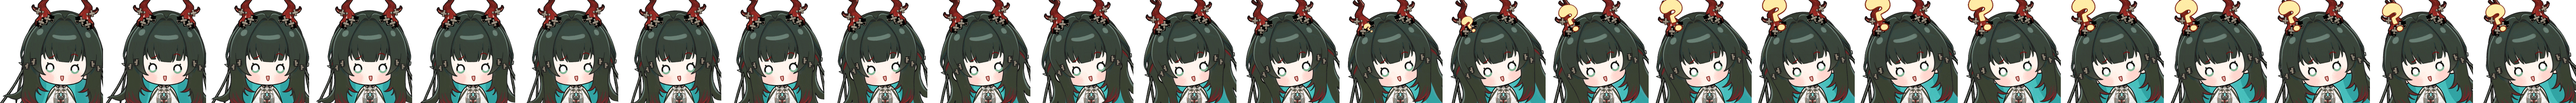
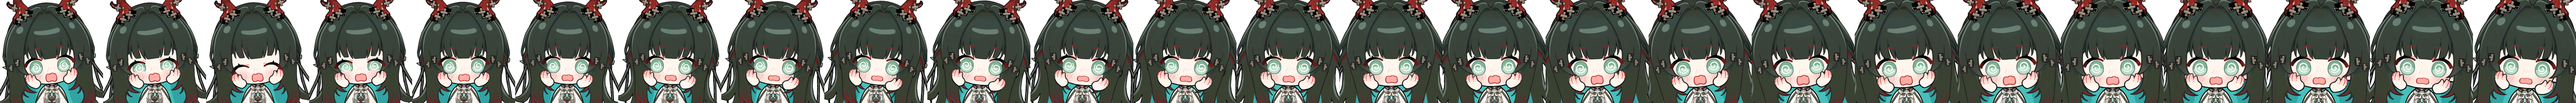
feat(主体): 删除不透明判据 —— F5 整批 20 张归队 + 星空公式进思考（用户点名）
用户 2026-10-07 两句话：
  · "这两个都并存就行了"（思考里：星星眼 + 星空公式）
  · "管线关于不透明的要求，直接去掉"

## ⭐ 删掉了什么

`scan_sources` 里**两道** `mt < SOLID_EPS` 拦截（登记为主体后、以及通用 GIF 分支）
全部删除。原先的逻辑：GIF 只要有一帧铺满不透明，就不许当主体，判去 `needs_cutout`，
理由是"播到那帧桌面上会闪矩形块"。

用户拍板："不需要抠背景，也能做主体。主体没有这么多限制，透不透明影响不大呀，
背景又不是无意义。"

`minT` 照样算、照样进报告（`--check` 与 report 可查），只是**不再作为门槛**。
注释里明确写了"别把它加回来 —— 它挡的是用户的决定"。

## 归队的与新增的

**① F5 整批 20 张全进主体**（原先 18 张 + `muscle`/`sunglasses` 归队）：
  `BUBBLE_F5` 清空；muscle → happy（7→8）、sunglasses → error（3→4）。
  它们后半段的满幅帧会以矩形出现 —— 用户明确接受。
  气泡池 45 → 43（两张撤出，产物目录里对应的孤儿 GIF 已被 prune 清掉）。

**② 星空公式当思考主体**（用户："这张图应该用于思考的时候"）：
  `thinking` 增至 5 个变体，与星星眼 `starry` **并存**。
  它是 F3b 气泡，**同时**保留在气泡池里（GIF 原样 33 帧动图，未退化）。
  实现上给它独立的主体语义名 `gif:05` —— 若复用气泡的 `starry-formula`
  撞了 `by_semantic` 的键，气泡池会拿到 kind=gif 的条目，
  **33 帧动图退化成静态首帧**（这是实现上最容易翻车的地方，断言盯着）。

## 背景说明（为什么星空公式"必须带背景"）

它的公式（f(x)=lim…、S=πR²）**画在深蓝星空底上** —— 抠掉背景公式就没了，
梗也就没了。用户确认"背景又不是无意义"。所以这张主体是**全幅不透明**的，
桌宠会显示为深蓝方块。

## 顺带澄清（用户问"有没有推进"）

实测星空公式各帧差异是**公式在人物周围漂移**，不是镜头推进 ——
用户"这张图没有推进啊"的判断是对的，我此前"zoom"的说法不准确。

## 测试
- e2e 73 → **75**：
  · muscle/sunglasses 改判"进主体 + 撤出气泡"（⚠ 主体归属**不能按名字找** ——
    产物名是状态编号，语义名不进文件名，`includes()` 恒假，老坑；
    改用张数 happy=8 / error=4 判定）
  · 新增"星空公式当思考主体且气泡不退化"（thinking 两张 33帧/30ms、
    气泡 starry-formula 仍 33帧/30ms）
  · "吐彩虹"张数账本更新：thinking=5、error=4（逐条注明每次决定）
- `emotes.js` 清掉 muscle/sunglasses 两条悬空气泡引用。
- 全量：11 个 JS 套件 **711** 项 + exe 自检 **201** 项，全绿。

diff --git a/src/pet/emotes.js b/src/pet/emotes.js
@@ -48,7 +48,6 @@ export const EMOTE_BY_KEY = {
   ],
   'notify-complete': [
     'bubble/17-yay.png',                    // 好耶
-    'bubble/muscle.gif',                    // 秀肌肉（"看我的"）
     'bubble/new/13-so-good.png',            // 太中啦
     'bubble/23-you-are-the-best.png',       // 你最好了
     'bubble/20-thumbs-up.png',              // 默大契（点赞）
@@ -87,7 +86,6 @@ export const EMOTE_BY_KEY = {
   error: [
     'bubble/22-annoyed.png',                // 好气人哦
     'bubble/angry-charge.gif',              // 生气蓄力→爆发（动图）
-    'bubble/sunglasses.gif',                // 墨镜流泪（强颜欢笑）
     'bubble/new/20-unhappy.png',            // 庄不开心
     'bubble/new/10-hate-you.png',           // 庄讨厌你
     'bubble/new/17-crying.png',             // 庄一直哭

diff --git a/tools/prepare-pet.py b/tools/prepare-pet.py
@@ -160,19 +160,13 @@ STATE_PLAN = (
     ('waking',    ('cheer', 'gif:07', 'cheerful')),
     ('idle',      ('gif:07', 'shy', 'wink', 'content', 'smile-soft')),
     ('listening', ('wink', 'gif:01', 'excited', 'cat-paws')),
-    # ⚠ 用户 2026-10-07："思考用这张图不合适，这张图出错的时候放"。
-    # 那张是 **`listless`**（源文件 `表情包_35_双眼半睁无精打采嘴巴.gif`）——
-    # 半睁的眼睛 + 吐彩虹，表达"顶不住了/被搞懵"，属于**出错**，不是思考。
-    #
-    # 踩过一次：我先按文件名"圆睁大眼嘴巴张成小小"猜成 `stunned`，把**错的**那张
-    # 搬了过去（`stunned` 其实是圆眼张嘴的正常表情，跟彩虹无关）。
-    # 教训：这批素材的**文件名描述的是静态印象**，而 GIF 的**中后段**才是用户
-    # 实际看到的画面 —— 认图必须看**中间帧**，不能读文件名。
-    ('thinking',  ('gif:04', 'starry', 'dizzy', 'stunned')),
+    # ⚠ `gif:05` = `05_星空公式`（33 帧带背景动图）。用户 2026-10-07 点名
+    # "这张图应该用于思考的时候"，与原有的星星眼 `starry` **并存**。
+    ('thinking',  ('gif:04', 'starry', 'gif:05', 'dizzy', 'stunned')),
     ('working',   ('writing', 'gif:03', 'megaphone', 'road-rage')),
     ('waiting',   ('gif:01', 'shy', 'follow-me', 'hungry', 'please')),
-    ('happy',     ('gif:06', 'joy', 'cheer', 'gif:07', 'star-eyes', 'all-ok', 'watermelon')),
-    ('error',     ('gif:02', 'knife', 'listless')),
+    ('happy',     ('gif:06', 'joy', 'cheer', 'gif:07', 'star-eyes', 'all-ok', 'watermelon', 'muscle')),
+    ('error',     ('gif:02', 'knife', 'listless', 'sunglasses')),
     ('sleeping',  ('sleepy', 'sleepy-zzz')),
 )
 
@@ -250,39 +244,30 @@ ANIM_BY_FILE = {
 #
 # ⚠ **2026-10-07 用户改主意**：这批"不要做气泡表情，要做桌宠主体"。
 # 于是其中 18 张改走主体那条路（`F5_BODY_SEMANTICS` + `STATE_PLAN`），
-# 剩 2 张（`muscle` / `sunglasses`）因为**后半段是满屏不透明特效**，
-# 当主体会在桌面上闪出矩形块 → 留在气泡池（气泡本来就允许满幅不透明）。
-# 这样"都要用上"和"主体不能有矩形块"两个要求同时满足。
+# ⚠ **2026-10-07 二次改主意**：用户拍板"管线关于不透明的要求，直接去掉" ——
+# 那道挡了 `muscle` / `sunglasses` 的透明占比判据已删（见 `scan_sources`），
+# 于是**整批 20 张全部进主体**，`BUBBLE_F5` 清空。
+#
+# 这意味着主体会出现**满幅不透明的帧**（muscle 后半段是明黄纯色底、
+# sunglasses 后半段是发丝特写）—— 用户明确接受："透不透明影响不大呀，
+# 背景又不是无意义"。**不要再把这道判据加回来**：它挡的是用户的决定，
+# 不是 bug。
 #
 # 关于画风：早先我以"另一个画风家族，混进主体会变装跳帧"为由把这批全放气泡，
 # 用户明确否掉了那条理由（"我认为新图都是符合的，没有这些要求"）——
-# 风格判断归用户，我只保留**渲染硬约束**（透明占比那条）。
+# 风格判断归用户。
 #
 # `opaque` 不写死 —— 由 `median_opaque_ratio` 按指标判定（见 `OPAQUE_MIN`）。
-BUBBLE_F5 = (
-    # (语义名, 源文件名, hasText)
-    # ⚠ 只剩这 2 张：它们后半段是**满屏不透明特效**，当主体会在桌面上闪矩形块，
-    # 所以留在气泡池（气泡允许满幅不透明）。其余 18 张见 `F5_BODY`。
-    ('muscle',       '表情包_31_明黄背景眯眼咧嘴吐舌.gif', False),   # 秀肌肉（明黄底 → 自动判 opaque）
-    ('sunglasses',   '表情包_33_戴黑色墨镜单手推镜敬.gif', False),   # 墨镜流泪（强颜欢笑）
-)
+BUBBLE_F5 = ()
 
-# ── F5b：这批里**当主体**的 18 张（用户 2026-10-07 改的主意）─────────────────
+# ── F5b：这批**全部 20 张当主体**（用户 2026-10-07："不要做气泡表情，
+#    要做桌宠主体" + "不透明的要求直接去掉"）────────────────────────────────
 #
-# 用户原话："新增的那一批表情包不要做气泡表情，要做桌宠主体"。
-#
-# ⚠ 为什么不能 20 张全进主体：主体有一条**硬判据**（不是审美偏好）——
-# `min_transparent_ratio` 要求**任何一帧都不能铺满不透明像素**，否则播到那一帧，
-# 桌面上会出现一个矩形色块。逐帧量过这 20 张（25 帧/张）：
-#
-#   能当主体（18 张，minT ≥ 3.1%）→ 见下表
-#   不能当主体（2 张，后半段满屏）→ 留在 `BUBBLE_F5`
-#     · muscle     13~24 帧铺满（明黄纯色底）
-#     · sunglasses 15~24 帧铺满（发丝特写撑满画面）
-#
-# 这样"都要用上"和"主体不能有矩形块"两个要求**同时**满足，而不是二选一。
-# `scan_sources` 仍会让这 18 张**过一遍**那条判据（走 `gif` 分支）——
-# 将来素材换版导致某张变实心时，它会掉进 `needs_cutout` 而不是悄悄进主体。
+# 逐帧量过的透明占比（记录在案，虽然已不再作为门槛）：
+#   18 张 minT ≥ 3.1%（全程有透明区）
+#   muscle      13~24 帧铺满（明黄纯色底）→ 主体播到那段会出现明黄矩形
+#   sunglasses  15~24 帧铺满（发丝特写撑满画面）→ 同理
+# 用户拍板接受矩形帧："透不透明影响不大呀，背景又不是无意义"。
 F5_BODY = (
     # (语义名, 源文件名)
     ('stunned',      '表情包_30_圆睁大眼嘴巴张成小小.gif'),   # 惊呆、冷汗
@@ -303,6 +288,9 @@ F5_BODY = (
     ('road-rage',    '表情包_47_驾浅蓝小车从远处一路.gif'),   # 开车路怒、赶路
     ('excited',      '表情包_48_先睁着大眼微笑后半段.gif'),   # 惊喜、期待
     ('all-ok',       '表情包_49_闭眼开心地笑脸颊泛红.gif'),   # 双手 OK、搞定
+    # ↓ 这 2 张原先被透明占比判据挡在气泡池，判据删除后归队（整批 20 张齐了）
+    ('muscle',       '表情包_31_明黄背景眯眼咧嘴吐舌.gif'),   # 秀肌肉（后半段明黄底铺满）
+    ('sunglasses',   '表情包_33_戴黑色墨镜单手推镜敬.gif'),   # 墨镜流泪（后半段发丝特写铺满）
 )
 
 # 与 F3b 合流：`scan_sources` 只认一张「文件名 → 语义名」的表。
@@ -311,24 +299,6 @@ F5_BY_FILE = {
     for semantic, fname, _has_text in BUBBLE_F5
 }
 
-# ── F5b：这批里**能当主体**的那些（用户 2026-10-07 改的主意）─────────────────
-#
-# 用户原话："新增的那一批表情包不要做气泡表情，要做桌宠主体"。
-#
-# ⚠ 为什么不能 20 张全进主体：主体有一条**硬判据**（不是审美偏好）——
-# `min_transparent_ratio` 要求**任何一帧都不能铺满不透明像素**，否则播到那一帧，
-# 桌面上会出现一个矩形色块。逐帧量过这 20 张：
-#
-#   能当主体（18 张，全部 25 帧、minT ≥ 3.1%）：
-#     stunned content cat-paws listless cheerful watermelon sleepy-zzz star-eyes
-#     smile-soft knife please dizzy follow-me hungry megaphone road-rage excited all-ok
-#   不能当主体（2 张，后半段是**满屏特效**）：
-#     muscle     13~24 帧铺满（明黄纯色底）
-#     sunglasses 15~24 帧铺满（发丝特写撑满画面）
-#
-# 那两张**留在气泡池**（气泡本来就允许满幅不透明，F4 那批全是）—— 这样
-# "都要用上"和"主体不能有矩形块"两个要求同时满足，而不是二选一。
-#
 # 主体候选由 `STATE_PLAN` 按**语义名**引用（见那张表），这里只提供
 # 「源文件名 → 语义名」的反查，供 `scan_sources` 把 GIF 登记成主体。
 F5_BODY_BY_FILE = {
@@ -337,6 +307,19 @@ F5_BODY_BY_FILE = {
 }
 BUBBLE_ANIM = BUBBLE_ANIM + BUBBLE_F5
 ANIM_BY_FILE.update(F5_BY_FILE)
+
+# ── F3b 里**同时**当主体的那些 ──────────────────────────────────────────────
+#
+# 用户 2026-10-07："这张图应该用于思考的时候"（指 `05_星空公式`）+ "这两个
+# 都并存"（与思考里原有的星星眼 `starry` 并存）。
+#
+# ⚠ 语义名必须用 `gif:05` 而不是复用 `starry-formula`：`by_semantic` 按
+# 语义名建索引，同一个语义名只能有一条 —— 若主体条目复用气泡的语义名，
+# 气泡池会拿到 kind=gif 的条目，**动态气泡退化成静态首帧**。
+# 两条并存：`starry-formula`（气泡，GIF 原样）+ `gif:05`（主体条带）。
+BODY_EXTRA_BY_FILE = {
+    '表情包_05_星空公式.gif': {'semantic': 'gif:05'},
+}
 
 # `opaque`（要不要套气泡底）**由指标判定，不手写**。
 #
@@ -665,7 +648,15 @@ def discover():
             needs_cutout.append({'name': 'wx/%s（%s）' % (fname, semantic),
                                  'reason': 'missing', 'detail': '源文件不存在'})
 
-    # ── 动态 GIF：逐帧透明占比自动判定，不依赖人工名单 ──
+    # ── 动态 GIF ──
+    #
+    # ⚠ **透明占比判据已按用户要求删除**（2026-10-07："管线关于不透明的要求，
+    # 直接去掉"）。原先这里有两道 `mt < SOLID_EPS` 的拦截：登记为主体的 GIF
+    # 只要有一帧铺满不透明就被判去 `needs_cutout`，理由是"播到那帧桌面上会闪
+    # 矩形块"。用户拍板接受："透不透明影响不大呀，背景又不是无意义"。
+    #
+    # `minT` 照样算、照样进报告（--check 与 report 里还能看到每张的透明占比），
+    # 只是**不再作为门槛**。别把它加回来 —— 它挡的是用户的决定。
     for p in sorted(glob.glob(os.path.join(ASSETS_QQ, '*.gif'))):
         base = os.path.basename(p)
         idx = base.split('_')[1] if '_' in base else ''
@@ -674,28 +665,12 @@ def discover():
         still = ANIM_BY_FILE.get(base)
         body = F5_BODY_BY_FILE.get(base)
         if body is not None:
-            # F5b：用户改主意了 —— 这批要做**主体**，不是气泡。
-            #
-            # 走 `gif` 这条路（= 主体候选），于是它**照样要过** `min_transparent_ratio`
-            # 判据（下面那个分支）—— 这是**有意的**：那两张后半段满屏不透明的
-            #（muscle / sunglasses）会被判去 `needs_cutout` 而不是悄悄进主体。
-            # 它们仍在 `BUBBLE_F5` 里（`still` 分支），所以照样能在气泡池用上。
-            if mt < SOLID_EPS:
-                solid = sum(1 for f in frames
-                            if f.getchannel('A').histogram()[0] / float(f.width * f.height) < SOLID_EPS)
-                needs_cutout.append({
-                    'name': base, 'reason': 'needsCutout',
-                    'detail': 'F5 登记为主体但有实心帧（%d/%d 帧铺满不透明），'
-                              '播到那帧桌面上会闪矩形块；该张仍在气泡池里可用'
-                              % (solid, len(frames))})
-                continue
+            # F5 整批做**主体**（`BUBBLE_F5` 已清空，这批不再进气泡池）。
             usable.append({'kind': 'gif', 'semantic': body['semantic'], 'name': base,
                            'path': p, 'minT': mt, 'frames': len(frames)})
             continue
         if still is not None:
-            # F3b / F5：这张登记为**动态气泡** → 跳过「当状态动画」的判据。
-            # 不是放水：它不进 `states`（不在 STATE_PLAN 里），只作为**气泡**出现；
-            # 而气泡本来就允许满幅不透明（F4 那批全是）。
+            # F3b：登记为**动态气泡**（GIF 原样入池，允许满幅不透明）。
             #
             # `opaque` 在这里**按指标算**（不写死）：多数帧都铺满 → 不套气泡底。
             # 手写过一版，20 张里猜错 3 张 —— 能量的属性就别靠印象。
@@ -703,14 +678,12 @@ def discover():
                            'path': p, 'minT': mt, 'frames': len(frames),
                            'frameMs': median_ms(durations),
                            'opaque': median_opaque_ratio(frames) >= OPAQUE_MIN})
-            continue
-        if mt < SOLID_EPS:
-            solid = sum(1 for f in frames
-                        if f.getchannel('A').histogram()[0] / float(f.width * f.height) < SOLID_EPS)
-            needs_cutout.append({
-                'name': base, 'reason': 'needsCutout',
-                'detail': '有实心帧（%d/%d 帧铺满不透明），播放会出现矩形块；'
-                          '已排除动画，等手动抠图' % (solid, len(frames))})
+            # F3b 里被用户点名"该用于思考"的那张，**同时**登记为主体候选
+            #（语义名用 `gif:NN`，避免与气泡条目在 `by_semantic` 里撞键 ——
+            #  撞键会让气泡池拿到 kind=gif 的条目，动态气泡退化成静态首帧）。
+            if base in BODY_EXTRA_BY_FILE:
+                usable.append({'kind': 'gif', 'semantic': BODY_EXTRA_BY_FILE[base]['semantic'],
+                               'name': base, 'path': p, 'minT': mt, 'frames': len(frames)})
             continue
         usable.append({'kind': 'gif', 'semantic': 'gif:' + idx, 'name': base,
                        'path': p, 'minT': mt, 'frames': len(frames)})
